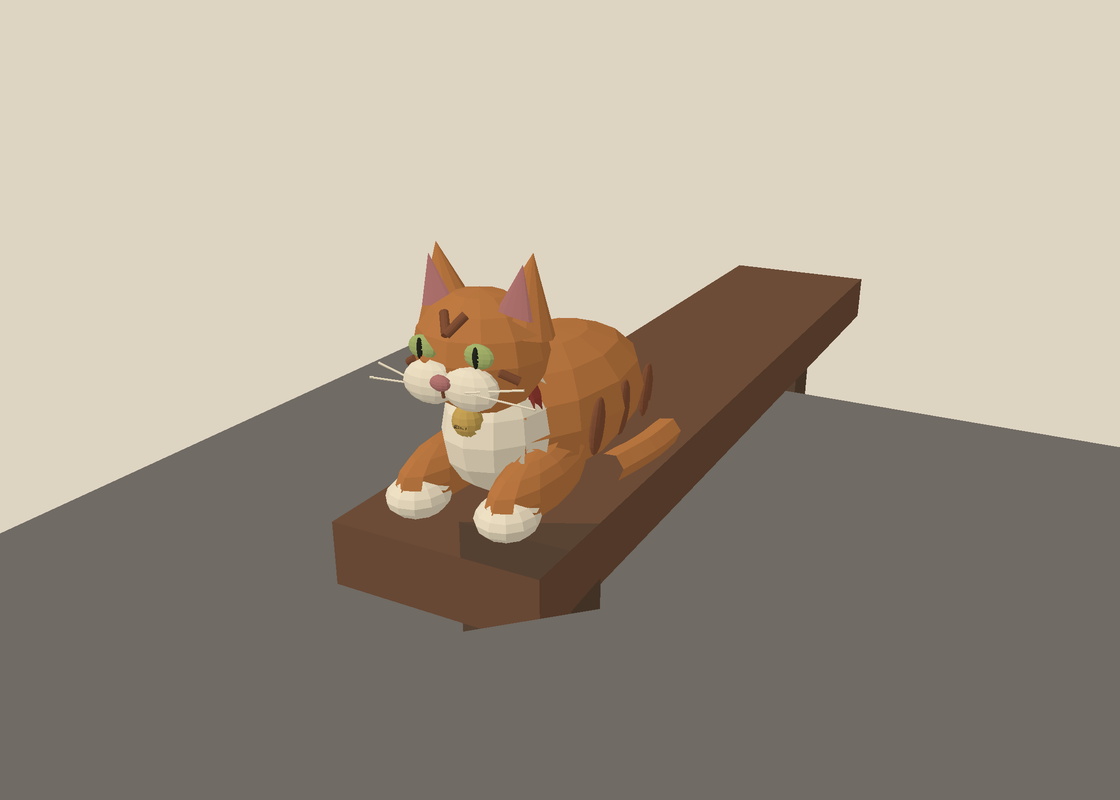
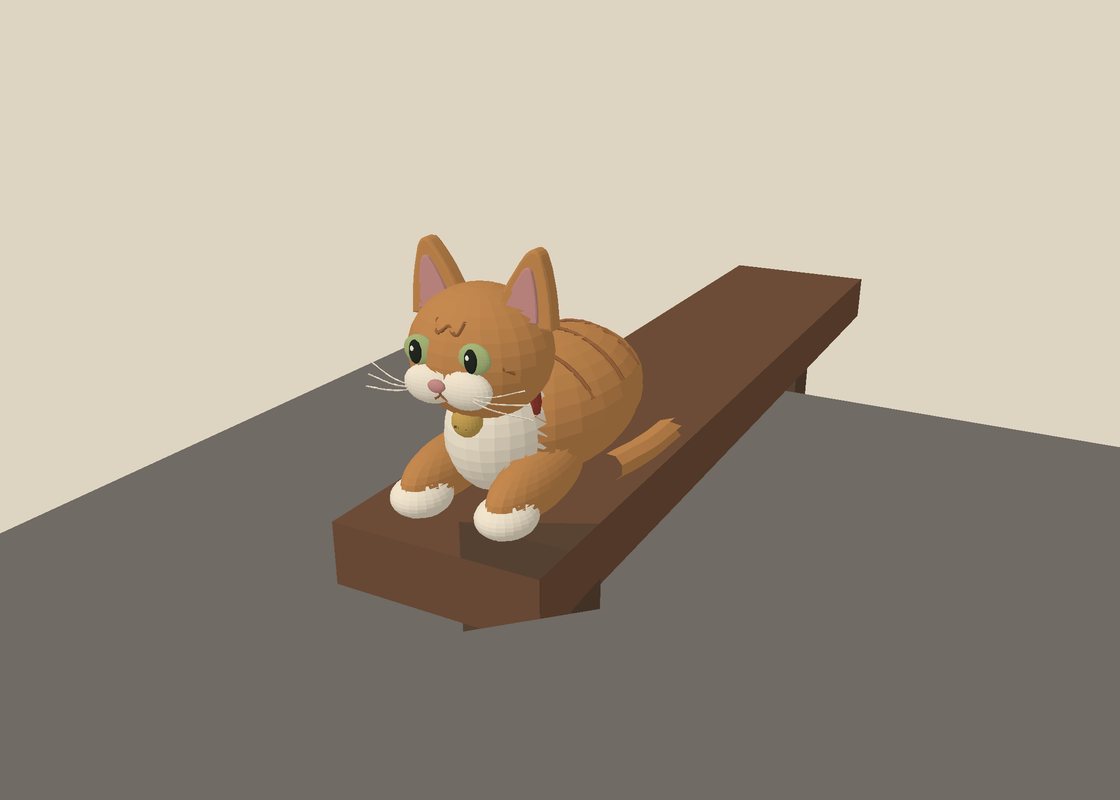
Soften the bench cat and make petting follow its gaze

diff --git a/dist/bench-cat.js b/dist/bench-cat.js
@@ -11,36 +11,56 @@ export class BenchCat{
  constructor(w){
   this.w=w;this.near=false;this.lastMeow=-Infinity;this.petLeft=0;this.lastPet=-Infinity;
   const g=this.group=new THREE.Group();g.name='tea-bench-para-cat';g.position.set(CAT_SPOT.x,CAT_SPOT.y,CAT_SPOT.z);g.rotation.y=0;w.scene.add(g);
-  const ginger='#bf7a42',stripe='#845136',cream='#eee0c3',pink='#b77772';
-  // A lean domestic shorthair, curled on the plank, with white socks and tabby marks.
-  this.body=w.ball(ginger,[0,.165,-.055],[.19,.165,.33],g);this.body.name='cat-body';
-  w.ball(cream,[0,.17,.17],[.12,.145,.15],g);
-  for(const side of [-1,1]){w.ball(ginger,[side*.11,.075,.20],[.065,.07,.19],g);w.ball(cream,[side*.11,.045,.33],[.068,.045,.075],g);}
-  const head=this.head=new THREE.Group();head.position.set(0,.36,.24);g.add(head);
-  w.ball(ginger,[0,0,0],[.145,.13,.13],head);
-  for(const side of [-1,1]){
-   const ear=w.mesh('cone',ginger,[side*.10,.13,-.018],[.072,.16,.055],head);ear.rotation.z=-side*.18;
-   const inside=w.mesh('cone',pink,[side*.10,.14,.016],[.041,.105,.012],head);inside.rotation.z=-side*.18;
-   w.ball(cream,[side*.047,-.04,.115],[.063,.045,.037],head);
-   const eye=w.ball('#a8b66d',[side*.065,.028,.111],[.034,.025,.013],head);eye.name='cat-eye';
-   const pupil=w.ball('#292a22',[side*.065,.028,.123],[.006,.022,.005],head);
-   (this.eyes??=[]).push([eye,pupil]);
-   for(let i=0;i<2;i++)w.rod([side*.05,-.04,.139],[side*(.17+i*.025),-.02-i*.035,.12],.002,cream,head);
-   for(let i=0;i<3;i++){const mark=w.ball(stripe,[side*.178,.16,-.20+i*.13],[.012,.065,.027],g);mark.rotation.x=-.25;}
-   const cheek=w.rod([side*.098,-.006,.09],[side*.13,-.025,.07],.009,stripe,head);cheek.name='tabby-cheek';
+  const ginger='#c68a50',stripe='#9b653e',cream='#f1e5ce',pink='#c88e88';
+  // Cat-only smooth geometry: the street's shared models are untouched.
+  const fur=new THREE.SphereGeometry(1,24,16);
+  const ball=(color,pos,size,parent=g,extra={})=>w.mesh(fur,color,pos,size,parent,{roughness:.92,...extra});
+  const stroke=(points,radius,color,parent=g)=>w.mesh(new THREE.TubeGeometry(new THREE.CatmullRomCurve3(points.map(p=>new THREE.Vector3(...p))),16,radius,5,false),color,[0,0,0],null,parent);
+  this.body=ball(ginger,[0,.16,-.055],[.19,.16,.32]);this.body.name='cat-body';
+  ball(cream,[0,.165,.17],[.115,.14,.14]);
+  for(const side of [-1,1]){ball(ginger,[side*.105,.073,.20],[.063,.068,.18]);ball(cream,[side*.105,.043,.325],[.065,.043,.073]);}
+  // Fine stripes follow the fur surface instead of sticking out of the sides.
+  for(const z of [-.21,-.08,.05]){
+   const section=Math.sqrt(1-((z+.055)/.32)**2),points=[];
+   for(let i=0;i<=16;i++){const angle=.13*Math.PI+i*.74*Math.PI/16;points.push([.192*section*Math.cos(angle),.16+.162*section*Math.sin(angle),z+.008*Math.sin(angle*2)]);}
+   stroke(points,.0045,stripe);
   }
-  w.ball(pink,[0,-.025,.15],[.023,.016,.013],head);
-  w.rod([0,-.04,.145],[0,-.058,.14],.003,stripe,head);
-  for(const side of [-1,1])w.rod([0,.065,.124],[side*.025,.10,.092],.009,stripe,head);
-  const collar=w.mesh(new THREE.TorusGeometry(.103,.014,5,20),'#983f35',[0,.265,.20],null,g);collar.rotation.x=.38;
-  const bell=this.bell=w.ball('#c9a455',[0,.225,.30],[.033,.035,.031],g,{metalness:.65,roughness:.3});bell.name='cat-collar-bell';
-  w.rod([-.014,.218,.326],[.014,.218,.326],.003,'#665332',g);
+  const head=this.head=new THREE.Group();head.rotation.order='YXZ';head.position.set(0,.36,.24);g.add(head);
+  ball(ginger,[0,0,0],[.155,.14,.14],head);
+  const earShape=new THREE.Shape();earShape.moveTo(-.062,0);earShape.quadraticCurveTo(-.045,.07,-.015,.13);earShape.quadraticCurveTo(0,.153,.012,.13);earShape.quadraticCurveTo(.042,.08,.060,.005);earShape.quadraticCurveTo(0,-.015,-.062,0);
+  const earGeo=new THREE.ExtrudeGeometry(earShape,{depth:.026,bevelEnabled:true,bevelSegments:2,steps:1,bevelSize:.006,bevelThickness:.006,curveSegments:6});
+  this.eyes=[];
+  for(const side of [-1,1]){
+   const ear=w.mesh(earGeo,ginger,[side*.10,.075,-.028],null,head);ear.rotation.z=-side*.20;
+   const inner=w.mesh(earGeo,pink,[side*.10,.085,.008],[.59,.70,.25],head);inner.rotation.z=-side*.20;
+   ball(cream,[side*.041,-.040,.125],[.059,.040,.032],head);
+   const eye=ball('#a9b77a',[side*.064,.026,.124],[.036,.031,.014],head,{roughness:.25});eye.name='cat-eye';
+   const pupil=ball('#252b24',[side*.064,.026,.139],[.014,.024,.005],head,{roughness:.2});
+   ball('#fff4dd',[-.30,.30,.90],[.29,.21,.28],pupil,{roughness:.15});
+   this.eyes.push([eye,pupil]);
+   for(let i=0;i<3;i++)stroke([[side*.045,-.043,.148],[side*.11,-.036-i*.012,.148],[side*(.18+i*.008),-.015-i*.028,.133]],.0012,cream,head);
+   stroke([[side*.107,.005,.096],[side*.126,-.009,.075]],.0035,stripe,head);
+   stroke([[side*.032,.090,.103],[side*.022,.066,.121],[0,.082,.115]],.0035,stripe,head);
+  }
+  ball(pink,[0,-.027,.163],[.019,.013,.010],head);
+  stroke([[0,-.037,.153],[0,-.049,.151]],.0025,stripe,head);
+  for(const side of [-1,1])stroke([[0,-.049,.151],[side*.015,-.059,.148],[side*.026,-.051,.146]],.002,stripe,head);
+  const collar=w.mesh(new THREE.TorusGeometry(.103,.012,8,28),'#983f35',[0,.265,.20],null,g);collar.rotation.x=.38;
+  this.bell=ball('#c9a455',[0,.225,.30],[.033,.035,.031],g,{metalness:.65,roughness:.3});this.bell.name='cat-collar-bell';
+  w.rod([-.014,.218,.326],[.014,.218,.326],.0025,'#665332',g);
   const curve=new THREE.CatmullRomCurve3([new THREE.Vector3(.08,.10,-.28),new THREE.Vector3(.21,.07,-.37),new THREE.Vector3(.23,.06,-.13),new THREE.Vector3(.20,.055,.03)]);
-  this.tail=w.mesh(new THREE.TubeGeometry(curve,14,.034,6,false),ginger,[0,0,0],null,g);this.tail.name='cat-curled-tail';
-  // Only visible during a user-triggered stroke; never a movement/camera lock.
+  this.tail=w.mesh(new THREE.TubeGeometry(curve,20,.032,8,false),ginger,[0,0,0],null,g);this.tail.name='cat-curled-tail';
+  // A connected arm reaches from the viewer, strokes behind the ears, then withdraws.
   this.hand=new THREE.Group();this.hand.name='petting-hand';this.hand.visible=false;w.scene.add(this.hand);
-  w.ball('#b38a65',[0,0,0],[.065,.026,.095],this.hand);for(let i=0;i<4;i++)w.ball('#b38a65',[-.045+i*.03,0,-.095],[.013,.019,.045],this.hand);
-  w.ball('#b38a65',[-.067,-.005,-.02],[.022,.024,.05],this.hand);
+  this.palm=new THREE.Group();this.palm.name='petting-palm';this.hand.add(this.palm);
+  ball('#b38a65',[0,0,0],[.060,.024,.079],this.palm);
+  for(let i=0;i<4;i++)ball('#b38a65',[-.041+i*.027,0,-.084],[.012,.016,.037],this.palm);
+  ball('#b38a65',[-.060,-.002,-.017],[.020,.020,.045],this.palm);
+  this.forearm=w.cyl('#b38a65',[0,0,0],[.037,1,.037],this.hand);this.forearm.name='petting-forearm';
+  this.upperArm=w.cyl('#b38a65',[0,0,0],[.045,1,.045],this.hand);
+  this.elbowMesh=ball('#b38a65',[0,0,0],[.043,.043,.043],this.hand);
+  this.viewer=new THREE.Vector3();this.localViewer=new THREE.Vector3();this.touchPoint=new THREE.Vector3();this.home=new THREE.Vector3();this.armStart=new THREE.Vector3();this.elbow=new THREE.Vector3();this.elbowLocal=new THREE.Vector3();this.wrist=new THREE.Vector3();this.segment=new THREE.Vector3();this.up=new THREE.Vector3(0,1,0);this.headQuaternion=new THREE.Quaternion();this.viewerQuaternion=new THREE.Quaternion();this.crownQuaternion=new THREE.Quaternion();this.handSideQuaternion=new THREE.Quaternion().setFromAxisAngle(new THREE.Vector3(0,1,0),-Math.PI/2);this.crownNormal=new THREE.Vector3();
+
  }
  pet(position,options,now){
   if(!canPetCat(position,options)||this.petLeft>0||now-this.lastPet<2.5)return false;
@@ -52,16 +72,44 @@ export class BenchCat{
   let meow=false;
   if(enabled&&!this.near&&distance<=2.1){this.near=true;if(now-this.lastMeow>=12){this.lastMeow=now;meow=true;}}
   if(!enabled||distance>CAT_PET_DISTANCE){this.petLeft=0;this.hand.visible=false;}
-  const petting=this.petLeft>0;if(petting)this.petLeft=Math.max(0,this.petLeft-dt);
-  const moving=!this.w.reduced;
-  this.head.rotation.z=petting?(moving?Math.sin((2.2-this.petLeft)*4)*.075:.07):0;
-  this.tail.rotation.y=moving?Math.sin(now*(petting?3:.7))*(petting?.09:.025):0;
-  this.bell.rotation.z=petting&&moving?Math.sin(now*5)*.12:0;
-  for(const [eye,pupil] of this.eyes){eye.scale.y=petting?.005:.025;pupil.scale.y=petting?.003:.022;}
+  if(this.petLeft>0)this.petLeft=Math.max(0,this.petLeft-dt);const petting=this.petLeft>1e-6;
+  const moving=!this.w.reduced,elapsed=2.2-this.petLeft;
+  this.viewer.set(position.x,Number.isFinite(position.y)?position.y:1.9,position.z);
+  this.group.updateWorldMatrix(true,false);this.localViewer.copy(this.viewer);this.group.worldToLocal(this.localViewer);this.localViewer.sub(this.head.position);
+  const watching=enabled&&distance<=2.1,yaw=watching?Math.atan2(this.localViewer.x,this.localViewer.z):0;
+  const pitch=watching?THREE.MathUtils.clamp(-Math.atan2(this.localViewer.y,Math.hypot(this.localViewer.x,this.localViewer.z)),-1.1,.12):0;
+  const blend=moving?1-Math.exp(-Math.max(0,dt)*7):1;
+  this.head.rotation.y+=Math.atan2(Math.sin(yaw-this.head.rotation.y),Math.cos(yaw-this.head.rotation.y))*blend;
+  this.head.rotation.x+=(pitch-this.head.rotation.x)*blend;
+  this.head.rotation.z=petting?(moving?Math.sin(elapsed*3)*.025:.025):0;
+  this.tail.rotation.y=moving?Math.sin(now*(petting?2:.7))*(petting?.04:.018):0;
+  this.bell.rotation.z=petting&&moving?Math.sin(now*4)*.08:0;
+  const blink=petting&&moving?1-.83*Math.exp(-(((elapsed-1.05)/.16)**2)):1;
+  for(const [eye,pupil] of this.eyes){eye.scale.y=.031*(petting?.88:1)*blink;pupil.scale.y=.024*(petting?.88:1)*blink;}
   this.hand.visible=petting&&moving;
-  if(this.hand.visible){this.group.updateWorldMatrix(true,false);this.hand.position.copy(this.group.localToWorld(new THREE.Vector3(0,.35,.06+Math.sin((2.2-this.petLeft)*5)*.08)));this.hand.rotation.y=this.group.rotation.y;}
+  if(this.hand.visible){
+   this.head.updateWorldMatrix(true,false);this.head.getWorldQuaternion(this.headQuaternion);
+   this.viewerQuaternion.copy(this.w.camera?.quaternion||this.group.quaternion);
+   const reach=THREE.MathUtils.smoothstep(elapsed,0,.40)*(1-THREE.MathUtils.smoothstep(elapsed,1.85,2.2));
+   const strokePhase=THREE.MathUtils.clamp((elapsed-.40)/1.45,0,1)*Math.PI*3;
+   this.elbow.set(.72,-.22,-.50).applyQuaternion(this.viewerQuaternion).add(this.viewer);this.elbowLocal.copy(this.elbow);this.head.worldToLocal(this.elbowLocal);
+   const side=Math.sign(this.elbowLocal.x)||1;this.handSideQuaternion.setFromAxisAngle(this.up,side*Math.PI/2);
+   const x=side*.035,z=-.045-.035*(.5-.5*Math.cos(strokePhase)),y=.14*Math.sqrt(1-(x/.155)**2-(z/.14)**2);
+   this.crownNormal.set(x/(.155*.155),y/(.14*.14),z/(.14*.14)).normalize();this.crownQuaternion.setFromUnitVectors(this.up,this.crownNormal);this.headQuaternion.multiply(this.crownQuaternion).multiply(this.handSideQuaternion);
+   this.touchPoint.set(x,y,z).addScaledVector(this.crownNormal,.026);this.head.localToWorld(this.touchPoint);
+   this.home.set(.24,-.62,-.28).applyQuaternion(this.viewerQuaternion).add(this.viewer);
+   this.palm.position.lerpVectors(this.home,this.touchPoint,reach);this.palm.position.y+=Math.sin(Math.PI*reach)*.07;
+   this.palm.quaternion.copy(this.viewerQuaternion).slerp(this.headQuaternion,reach);
+   this.armStart.set(.33,-.60,.12).applyQuaternion(this.viewerQuaternion).add(this.viewer);
+   this.wrist.set(.006,.010,.070).applyQuaternion(this.palm.quaternion).add(this.palm.position);
+   this.elbowMesh.position.copy(this.elbow);
+   this.poseArm(this.upperArm,this.armStart,this.elbow);this.poseArm(this.forearm,this.elbow,this.wrist);
+  }
+
   return meow;
  }
+ poseArm(mesh,from,to){this.segment.copy(to).sub(from);const length=this.segment.length();mesh.position.copy(from).add(to).multiplyScalar(.5);mesh.scale.y=length;if(length>1e-8)mesh.quaternion.setFromUnitVectors(this.up,this.segment.divideScalar(length));}
+
 }
 
 export class CatSound{

diff --git a/dist/app.js b/dist/app.js
@@ -269,7 +269,7 @@ function updateNameTags(position,occupied){
  }
 }
 function catOptions(){return {started:state.started,inputPaused:state.inputPaused,queuing:state.queuing,renderCamera:!!world?.renderCamera,travelling:!!world?.target||!!world?.jumpMotion?.active};}
-function petBenchCat(){if(!world?.benchCat||!world.benchCat.pet(world.camera.position,catOptions(),performance.now()/1000))return;if(state.sound)catSound.meow();toast('You gently pet the para cat. It closes its eyes.');}
+function petBenchCat(){if(!world?.benchCat||!world.benchCat.pet(world.camera.position,catOptions(),performance.now()/1000))return;if(state.sound)catSound.meow();toast('You gently pet the para cat. It looks up at you.');}
 let catFrameTime=0;
 function updateBenchCat(position,occupied){
  const button=$('cat-marker');if(!world.benchCat){button.hidden=true;return;}

diff --git a/docs/qa/bench-cat.md b/docs/qa/bench-cat.md
@@ -9,3 +9,12 @@ The cat adds one small collision disc at the occupied bench end. Real-scene chec
 [Geometry model preview](bench-cat-model.png) is a software projection of the actual Three.js cat and unchanged bench geometry, inspected for paws/plank placement, model proportions and bell visibility. It is not a browser screenshot. Fresh browser QA remains unavailable because the browser tool fails during startup. No physical-device frame-rate or listening-review claim is made.
 
 Real cat recording: Dan Crosby, Meow.ogg, CC BY-SA 3.0, unchanged (14,306 bytes). In-game credit links to the full source and license in assets/cat-audio-attribution.md.
+
+
+## Face and petting refinement
+
+Only the cat model/animation module and its pet response copy changed. The cat retains its bench position, collar bell, meow, proximity gates and collision boundary. The rest of the neighbourhood is unchanged.
+
+Cat-only smooth sphere geometry, rounded ear profiles, finer surface-following tabby stripes, rounder pupils and small eye highlights soften the model. The head turns smoothly toward the actual visitor and tilts up, with a brief slow blink while petting. A connected arm approaches from the side, follows the curved crown behind the ears, and withdraws. The model preview exposed an arm crossing the face; the reach was corrected and a ray-intersection regression now checks that both eyes remain unobstructed from four visitor directions during contact.
+
+The final suite passes 144 checks. Added checks cover head direction and smooth turning, approach/contact/withdrawal, wrist attachment, crown placement, and eye visibility. Resting, petting and visitor-perspective geometry previews were inspected. [Visitor-perspective petting preview](bench-cat-petting.png). These are software projections of the actual meshes, not browser screenshots. Browser QA is still unavailable because the browser tool fails during startup.
